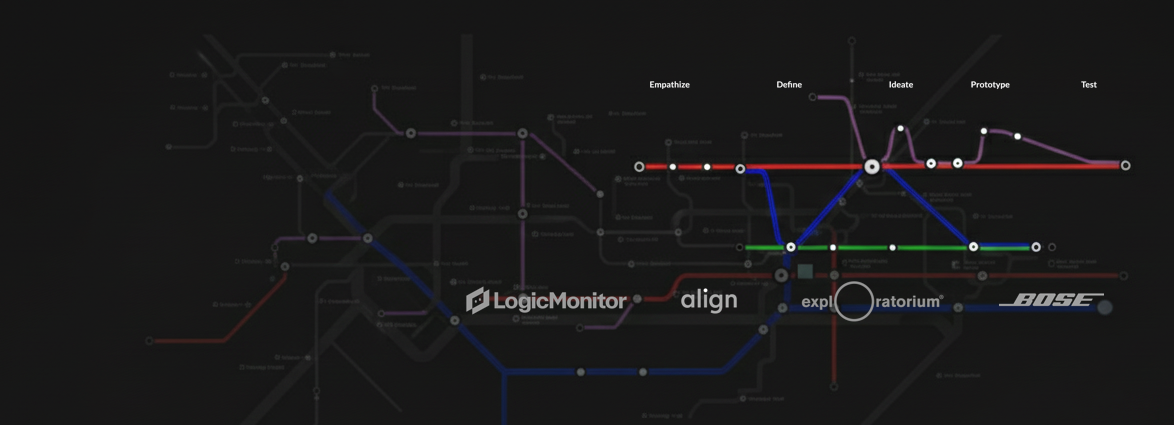
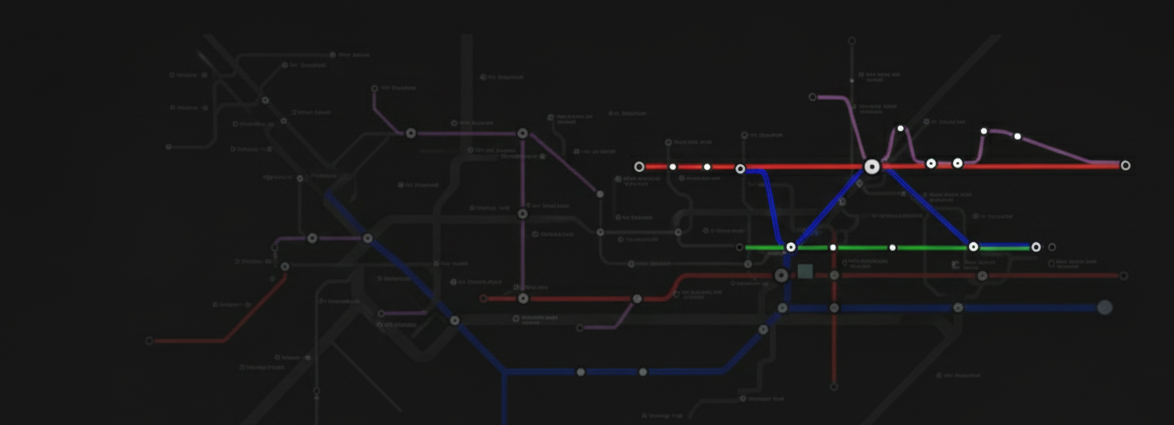
hero image again

diff --git a/src/App.tsx b/src/App.tsx
@@ -396,11 +396,11 @@ export default function DesignCentralStation() {
         </a>
 
             {/* Hero Section */}
-      <header className="relative h-[33vh] min-h-[300px] overflow-hidden bg-center bg-cover"
+      <header className="relative h-[33vh] min-h-[300px] overflow-hidden bg-center bg-cover bg-[url('/images/Home/hero1.png')] md:bg-[url('/images/Home/hero2.png')]"
         style={{ 
-          backgroundImage: 'url("/images/Home/hero2.png")',
-          backgroundSize: 'cover',
-          backgroundPosition: 'center center'
+          // backgroundImage: 'url("/images/Home/hero2.png")',
+          // backgroundSize: 'cover',
+          // backgroundPosition: 'center center'
         }}>
             {/* Fullscreen Image Viewer */}
                 {fullscreenImage && (
